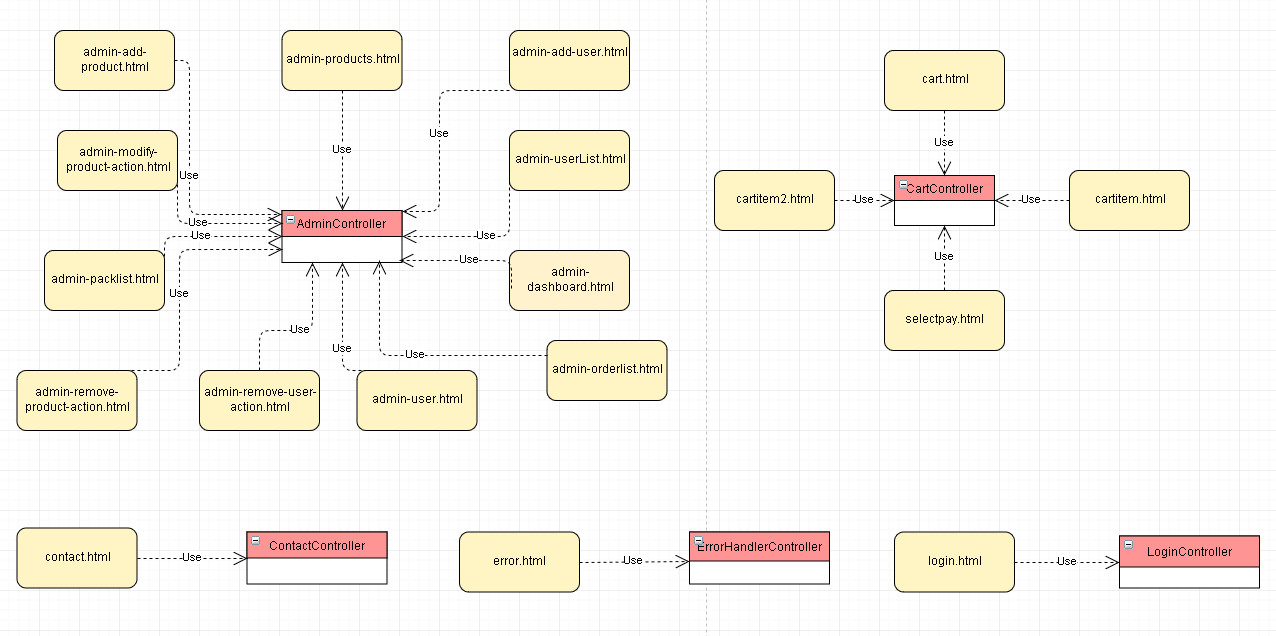
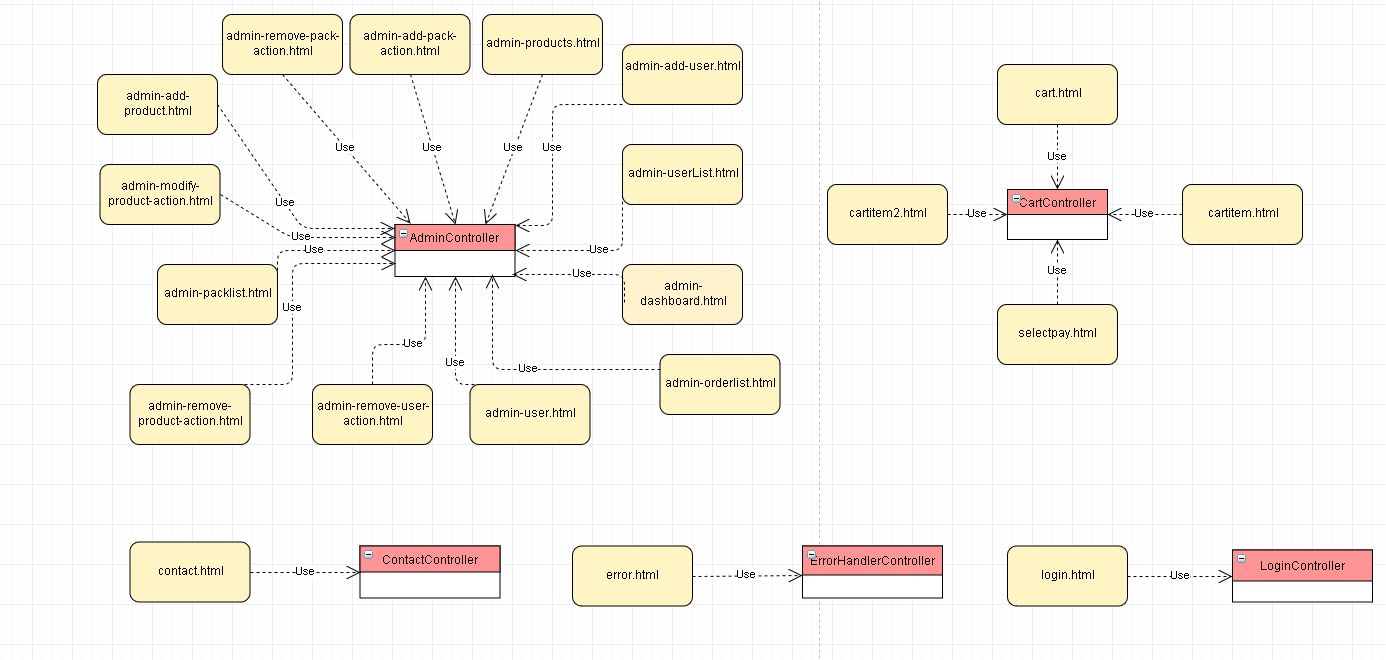
-Changes: * Minor changes in README * Add and remove pack functionality in admin created

diff --git a/src/main/resources/templates/admin/admin-add-pack-action.html b/src/main/resources/templates/admin/admin-add-pack-action.html
@@ -1,4 +1,7 @@
 <!doctype html>
+
+<html lang="en">
+
 <html class="fixed">
 
 	{{>admin/admin-head}}
@@ -14,16 +17,16 @@
 
 				<section role="main" class="content-body">
 					<header class="page-header">
-						<h2>Products</h2>
+						<h2>Packs</h2>
 					
 						<div class="right-wrapper pull-right">
 							<ol class="breadcrumbs">
 								<li>
-									<a href="/admin">
+									<a href="index.html">
 										<i class="fa fa-home"></i>
 									</a>
 								</li>
-								<li><span>Products</span></li>
+								<li><span>Packs</span></li>
 							</ol>
 					
 							<a class="sidebar-right-toggle" data-open="sidebar-right"><i class="fa fa-chevron-left"></i></a>
@@ -33,28 +36,43 @@
 					<!-- start: page -->
 						
 						<section class="panel">
-							<header class="panel-heading">
-						
-								<h2 class="panel-title">Packs</h2>
-							</header>
-							<div class="panel-body">
-								<a href="/admin-add-pack">
-				                    <button style="margin-bottom:15px;" type="button" class="btn btn-primary"><span class="fa fa-plus-circle"> </span> &nbsp; Add pack</button>
-				                </a>
-								<table class="table table-bordered table-striped mb-none" id="datatable-tabletools" data-swf-path="/admin/assets/vendor/jquery-datatables/extras/TableTools/swf/copy_csv_xls_pdf.swf">
-									<thead>
-										<tr>
-											<th>Name</th>
-											<th>Price</th>
-											<th>Products</th>
-											
-										</tr>
-									</thead>
-									<tbody>
-										{{#packs}} {{>admin/admin-packtable}} {{/packs}}
-									</tbody>
-								</table>
-							</div>
+								<div class="panel-title-sign mt-xl text-right">
+									<h2 class="title text-uppercase text-weight-bold m-none"><i class="fa fa-user mr-xs"></i>Add pack</h2>
+								</div>
+								<div class="panel-body">
+									<form action="/admin-add-pack-action" method="post">
+										<div class="form-group mb-lg">
+											<label>Pack Name</label>
+											<input name="namePack" type="text" class="form-control input-lg" />
+										</div>
+
+										<div class="form-group mb-lg">
+											<label>Pack Price</label>
+											<input name="price" type="number" class="form-control input-lg" />
+										</div>
+							
+										<div class="form-group mb-lg">
+											<label>First Product Name in Pack</label>
+											<input name="nameP1" type="text" class="form-control input-lg" />
+										</div>
+										
+										<div class="form-group mb-lg">
+											<label>Second Product Name in Pack</label>
+											<input name="nameP2" type="text" class="form-control input-lg" />
+										</div>
+										
+										<div class="form-group mb-lg">
+											<label>Third Product Name in Pack</label>
+											<input name="nameP3" type="text" class="form-control input-lg" />
+										</div>
+										
+										<footer class="panel-footer">
+											<button class="btn btn-primary">Submit </button>
+											<button type="reset" class="btn btn-default">Reset</button>
+										</footer>
+									
+									</form>
+								</div>
 						</section>
 					<!-- end: page -->
 				</section>

diff --git a/src/main/resources/templates/admin/admin-remove-pack-action.html b/src/main/resources/templates/admin/admin-remove-pack-action.html
@@ -14,12 +14,12 @@
 
 				<section role="main" class="content-body">
 					<header class="page-header">
-						<h2>Products</h2>
+						<h2>Packs</h2>
 					
 						<div class="right-wrapper pull-right">
 							<ol class="breadcrumbs">
 								<li>
-									<a href="/admin">
+									<a href="index.html">
 										<i class="fa fa-home"></i>
 									</a>
 								</li>
@@ -33,28 +33,23 @@
 					<!-- start: page -->
 						
 						<section class="panel">
-							<header class="panel-heading">
-						
-								<h2 class="panel-title">Packs</h2>
-							</header>
-							<div class="panel-body">
-								<a href="/admin-add-pack">
-				                    <button style="margin-bottom:15px;" type="button" class="btn btn-primary"><span class="fa fa-plus-circle"> </span> &nbsp; Add pack</button>
-				                </a>
-								<table class="table table-bordered table-striped mb-none" id="datatable-tabletools" data-swf-path="/admin/assets/vendor/jquery-datatables/extras/TableTools/swf/copy_csv_xls_pdf.swf">
-									<thead>
-										<tr>
-											<th>Name</th>
-											<th>Price</th>
-											<th>Products</th>
-											
-										</tr>
-									</thead>
-									<tbody>
-										{{#packs}} {{>admin/admin-packtable}} {{/packs}}
-									</tbody>
-								</table>
-							</div>
+								<div class="panel-title-sign mt-xl text-right">
+									<h2 class="title text-uppercase text-weight-bold m-none"><i class="fa fa-user mr-xs"></i>Remove Pack</h2>
+								</div>
+								<div class="panel-body">
+									<form action="/admin-remove-pack-action" method="post">
+										<div class="form-group mb-lg">
+											<label>Pack Name</label>
+											<input name="name" type="text" class="form-control input-lg" required />
+										</div>
+										
+										<footer class="panel-footer">
+											<button class="btn btn-primary">Remove </button>
+											<button type="reset" class="btn btn-default">Reset</button>
+										</footer>
+									
+									</form>
+								</div>
 						</section>
 					<!-- end: page -->
 				</section>

diff --git a/src/main/resources/templates/admin/admin-packtable.html b/src/main/resources/templates/admin/admin-packtable.html
@@ -7,6 +7,6 @@
 		<a href="#" class="hidden on-editing save-row"><i class="fa fa-save"></i></a>
 		<a href="#" class="hidden on-editing cancel-row"><i class="fa fa-times"></i></a>
 		<a href="#" class="on-default edit-row"><i class="fa fa-pencil"></i></a>
-		<a href="/admin-remove-product" class="on-default remove-row"><i class="fa fa-trash-o"></i></a>
+		<a href="/admin-remove-pack" class="on-default remove-row"><i class="fa fa-trash-o"></i></a>
 	</td>
 </tr>

diff --git a/src/main/java/com/planetofthetapes/controller/AdminController.java b/src/main/java/com/planetofthetapes/controller/AdminController.java
@@ -21,6 +21,7 @@ import org.springframework.web.multipart.MultipartFile;
 import org.springframework.web.servlet.mvc.support.RedirectAttributes;
 
 import com.planetofthetapes.entity.POrder;
+import com.planetofthetapes.entity.Pack;
 import com.planetofthetapes.entity.Product;
 import com.planetofthetapes.entity.User;
 import com.planetofthetapes.repository.POrderRepository;
@@ -102,6 +103,58 @@ public class AdminController extends MasterService{
 		
 		return "/admin/admin-packlist";
 	}
+	
+	@RequestMapping("/admin-add-pack")
+	public String addPack(Model model, HttpServletRequest request, RedirectAttributes redirectAttrs) {
+		
+		this.session(model, request, redirectAttrs);
+		return "admin/admin-add-pack-action";
+	}
+	
+	@RequestMapping("/admin-add-pack-action")
+	public String addPackAction(Model model, HttpServletRequest request, RedirectAttributes redirectAttrs, @RequestParam String namePack, @RequestParam String nameP1,
+			@RequestParam String nameP2, @RequestParam String nameP3, @RequestParam Integer price) {
+		
+		this.session(model, request, redirectAttrs);
+		
+		ArrayList<Product> l = new ArrayList<Product>();
+		
+		Product product1 = productRepository.findByName(nameP1);
+		Product product2 = productRepository.findByName(nameP2);
+		Product product3 = productRepository.findByName(nameP3);
+		
+		l.add(product1);
+		l.add(product2);
+		l.add(product3);
+		
+		Pack p = new Pack(namePack, price, l);
+		
+		packRepository.save(p);
+		
+		redirectAttrs.addFlashAttribute("messages", "Added new pack.");
+
+		return "redirect:/admin-packlist";	
+	}
+	
+	@RequestMapping("/admin-remove-pack")
+	public String removePack(Model model, HttpServletRequest request, RedirectAttributes redirectAttrs) {
+		this.session(model, request, redirectAttrs);
+
+		return "admin/admin-remove-pack-action";
+	}
+	
+	@RequestMapping("/admin-remove-pack-action")
+	public String removePackAction(Model model, @RequestParam String name, HttpServletRequest request, RedirectAttributes redirectAttrs) {
+		this.session(model, request, redirectAttrs);
+			try {
+				Pack pack = packRepository.findByName(name);
+				packRepository.delete(pack);
+			} catch (Exception e) {
+				return "redirect:/admin-packlist/deleteError";
+			}
+
+			return "redirect:/admin-packlist";
+}
 	
 	@RequestMapping("/admin-user")
 	public String adminuserprofile(Model model, HttpServletRequest request, RedirectAttributes redirectAttrs) {
@@ -190,7 +243,7 @@ public class AdminController extends MasterService{
 		return "redirect:/admin-products";
 	}
 	
-	@RequestMapping("/add-product")
+	@RequestMapping("/add-user")
 	public String addUser(Model model, HttpServletRequest request, RedirectAttributes redirectAttrs) {
 		this.session(model, request, redirectAttrs);
 		model.addAttribute("products",productRepository.findAll());

diff --git a/src/main/java/com/planetofthetapes/repository/PackRepository.java b/src/main/java/com/planetofthetapes/repository/PackRepository.java
@@ -5,5 +5,7 @@ import com.planetofthetapes.entity.Pack;
 
 
 public interface PackRepository extends JpaRepository<Pack, Integer>{
+	
+	Pack findByName(String name);
 
 }

diff --git a/src/main/java/com/planetofthetapes/entity/Pack.java b/src/main/java/com/planetofthetapes/entity/Pack.java
@@ -49,8 +49,6 @@ public class Pack {
 		this.price = price;
 	}
 
-
-
 	public Integer getId() {
 		return id;
 	}
